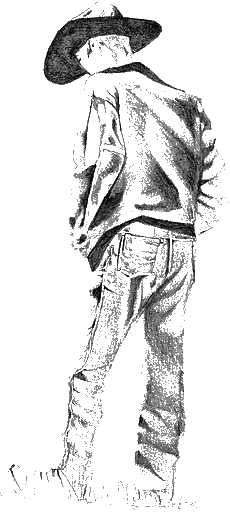
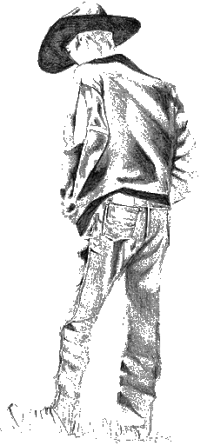
Now loading images with background so mobile version doesn't load all three images, only the correct size

diff --git a/css/style.css b/css/style.css
@@ -70,29 +70,6 @@ i {
 
 .glance {
 }
-  .glance .tinythumb {
-    display: none;
-    float: right;
-    width: 200px;
-    margin-left: 10px;
-    margin-top: .5em;
-    margin-bottom: 1em;
-  }
-  .glance .thumb {
-    display: none;
-    float: left;
-    margin-right: 10px;
-    margin-top: .5em;
-    margin-bottom: 1em;
-  }
-  .glance .bigthumb {
-    display: none;
-    float: left;
-    width: 400px;
-    margin-right: 20px;
-    margin-top: .5em;
-    margin-bottom: 1em;
-  }
   .glance .list {
     margin-left: 0;
   }
@@ -259,7 +236,16 @@ footer {
     }
 }
 @media screen and (min-width: 500px) {
-  .glance .tinythumb { display: inline-block; }
+  .glance .thumb {
+    display: inline-block;
+    float: right;
+    width: 200px;
+    height: 200px;
+    background: url('../gfx/me-tiny.png') no-repeat;
+    margin-left: 10px;
+    margin-top: .5em;
+    margin-bottom: 1em;
+  }
   .site .thumb-img {
     display: inline-block;
     float: right;
@@ -281,8 +267,14 @@ footer {
   }
 }
 @media screen and (min-width: 650px) {
-  .glance .tinythumb { display: none }
-  .glance .thumb { width: 200px; display: inline-block; }
+  .glance .thumb {
+    width: 200px;
+    height: 445px;
+    float: left;
+    margin-right: 10px;
+    margin-left: 0;
+    background-image: url('../gfx/me-slim.png');
+  }
   .glance .list { margin-left: 220px; }
   .site + .site {
     margin-top: 5em;
@@ -340,8 +332,13 @@ footer {
   }
   .glance .list { margin-left: 420px; }
   .glance .list dd { margin-left: 0; }
-  .glance .thumb { display: none; }
-  .glance .bigthumb { display: inline-block; }
+  .glance .thumb {
+    width: 400px;
+    height: 494px;
+    margin-right: 20px;
+    margin-left: 0;
+    background-image: url('../gfx/me.png');
+  }
 }
 @media screen and (min-width: 930px) {
   .contact .unimportant {

diff --git a/index.html b/index.html
@@ -68,9 +68,7 @@
         <a href="http://jonhoo.wordpress.com" itemprop="url">Blog</a>
       </div>
       <div class="limwidth glance">
-        <img class="bigthumb" itemprop="image" src="gfx/me.png" alt="A picture of me" />
-        <img class="thumb" itemprop="image" src="gfx/me-slim.png" alt="A picture of me" />
-        <img class="tinythumb" itemprop="image" src="gfx/me-tiny.png" alt="A picture of me" />
+        <div class="thumb"></div>
         <dl class="list">
           <dt class="label">Name</dt>
           <dd>Jon <i>Ferdinand Ronge</i> Gjengset</dd>

diff --git a/js/script.js b/js/script.js
@@ -41,7 +41,6 @@ $(window).on('popstate', function(e) {
       to = nto;
     }
   }
-  console.log(to);
   $(".item[href='#" + to.attr('id') + "']").closest('.item-inline').addClass('active').siblings().removeClass('active');
   pages.scrollTo(to, 150);
 });
